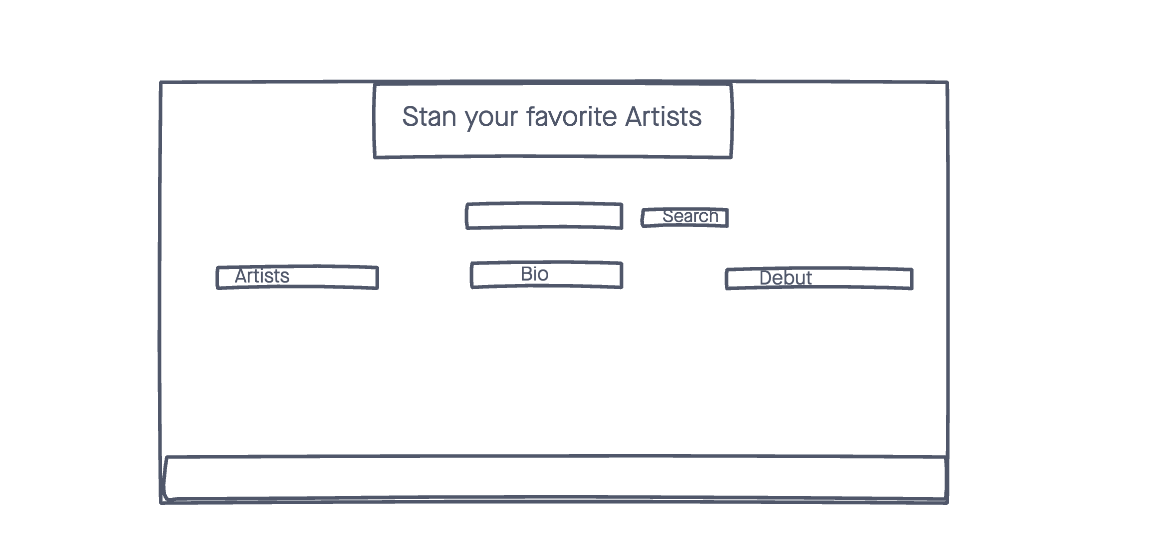
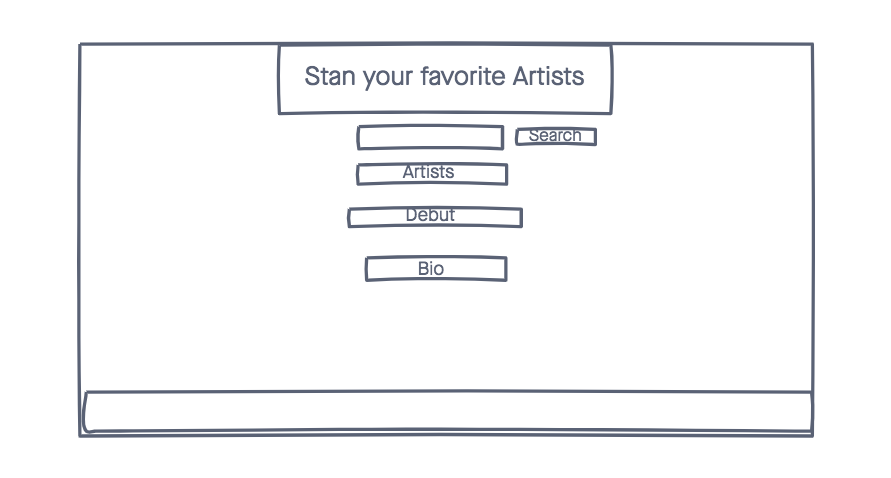
updates README.md and CSS

Changed region(s): [[0.0606, 0.0879, 0.9394, 0.9372], [0.1818, 0.4686, 0.3333, 0.5272]]

diff --git a/Css/style.css b/Css/style.css
@@ -1,3 +1,52 @@
-h1 {
-    color: red;
+@import url('https://fonts.googleapis.com/css2?family=Indie+Flower&display=swap');
+
+:root {
+    --logo-font: 'Indie Flower', Helvetica;
 }
+
+* {
+    box-sizing: border-box;
+    margin: 0;
+}
+
+body {
+    font-family: Helvetica;
+    display: column;
+    flex-direction: row;
+    min-height: 100vh;
+}
+
+header {
+    display: flex;
+    align-items: center;
+    justify-content: center;
+    color: white;
+    width: 100%;
+    height: 200px;
+    background-color: black;
+    font-family: var(--logo-font);
+    font-size: 80px;
+}
+
+.flex-ctr {
+    display: flex;
+    flex-direction: column;
+    justify-content: space-evenly;
+    align-items: center;
+
+}
+.search {
+    display: flex;
+    flex-direction: row;
+    justify-content: center;
+    align-items: center;
+    padding: 20px;
+}
+
+
+#info {
+    font-family: var(--logo-font);
+    font-size: 80px;
+    color: black;
+}
+

diff --git a/index.html b/index.html
@@ -13,18 +13,18 @@
 
 <body>
     <header>
-        <h1>Stan Your Favorite Artists</h1>
+        <h1>Stan</h1>
     </header>
-    <form>
+    <form class="search">
         <input id="search" type="text" placeholder="Artists" />
         <input type="submit" value="Stan Artists" />
     </form>
-    <main>
-        <h3 id="info">Artist</h3>
+    <main class="flex-ctr">
+        <h3 class="container left" id="info">Artist</h3>
         <p id="strArtist"></p>
-        <h3 id="info">Debut</h3>
+        <h3 class="container right" id="info">Debut</h3>
         <p id="intFormedYear"></p>
-        <h3 id="info">Bio</h3>
+        <h3 class="container middle" id="info">Bio</h3>
         <p id="strBiographyEN"></p>
     </main>
 

diff --git a/README.md b/README.md
@@ -1,0 +1,22 @@
+# Stan Your Favorite Music Artists 
+
+A web application that retrieves your favorite music artists bio and debut to the world!
+
+## Technologies Used
+
+- HTML 5
+- CSS3
+- JavaScript
+- jQuery
+- Google Fonts
+- AudioDB API
+
+## Screenshots
+
+![Stan](imgs/Stan.png)
+
+## Getting Started
+[Click Here](#) to stan your favorite music artists!
+
+## Future Enhancements 
+- Watch your favorite artists most streamed music video ever.
